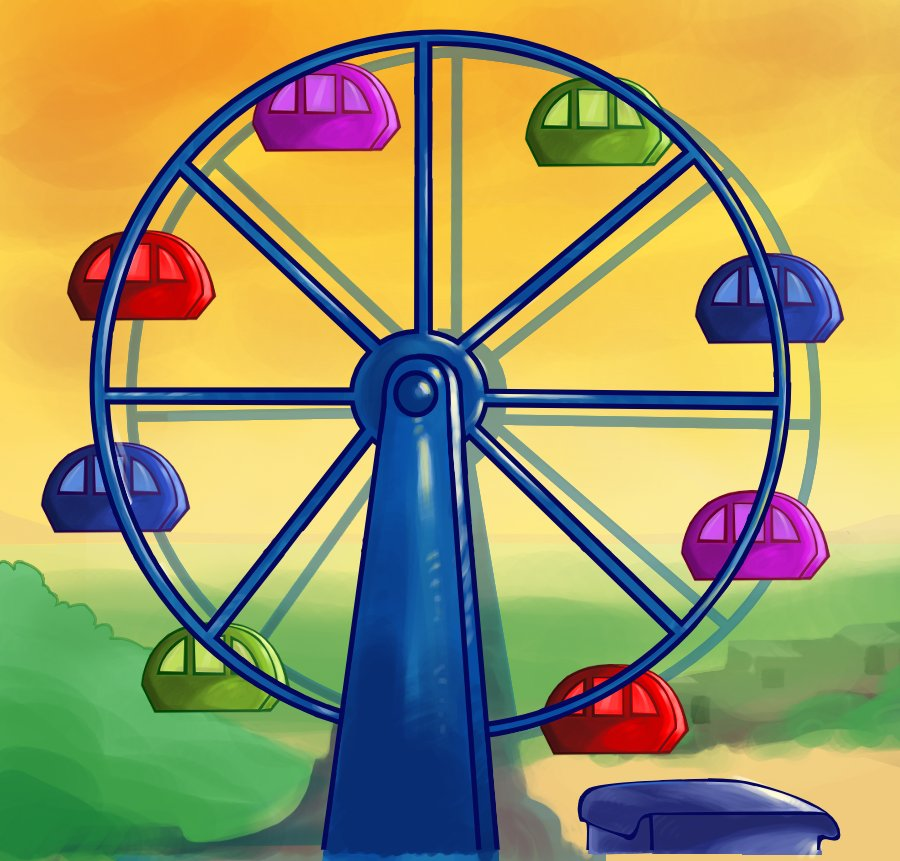
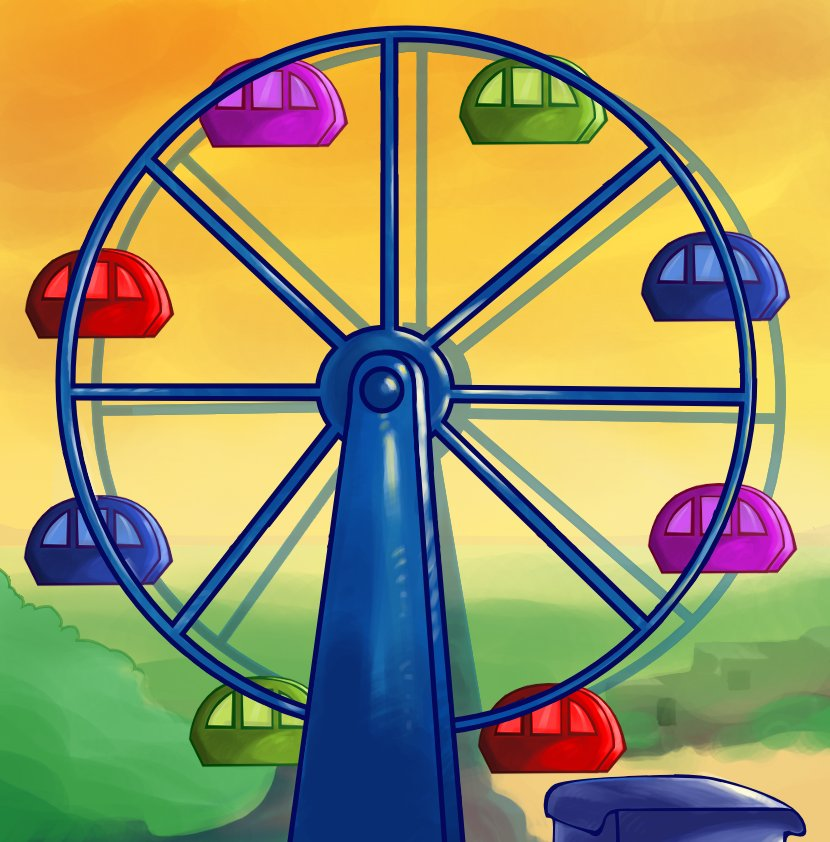
Transformation des images ne nécessitant pas de transparence en jpg (si plus de 25Ko !!). Correction chemin dans le code. Résolution bug #627

diff --git a/interfacecompetence.cpp b/interfacecompetence.cpp
@@ -25,7 +25,7 @@ InterfaceCompetence::InterfaceCompetence(QString competence,QWidget *parent) :
             this->setWindowTitle("Tables de multiplication");
             adapte(*m_decor);
             QPoint origine(m_decor->width()/2 - 60,m_decor->height()/2 - 60);
-            int R=m_decor->width()/2.7;
+            int R=m_decor->width()/2.5;
             int nb=8;
             int angleDepart=20;
             float deformation=1;
@@ -87,7 +87,7 @@ InterfaceCompetence::InterfaceCompetence(QString competence,QWidget *parent) :
             break;
 
         case 3 : {
-            m_decor = new QPixmap("./images/3standTir.png");
+            m_decor = new QPixmap("./images/3standTir.jpg");
             this->setWindowTitle("Les multiples");
             adapte(*m_decor);
             this->move(800,300);
@@ -118,7 +118,7 @@ InterfaceCompetence::InterfaceCompetence(QString competence,QWidget *parent) :
             break;
             
         case 4 : {
-            m_decor = new QPixmap("./images/4booster.png");
+            m_decor = new QPixmap("./images/4booster.jpg");
             this->setWindowTitle("Tables d'addition");
             adapte(*m_decor);
             move(200,0);
@@ -140,7 +140,7 @@ InterfaceCompetence::InterfaceCompetence(QString competence,QWidget *parent) :
             break;
 
         case 5 : {
-            m_decor = new QPixmap("./images/5palaisGlaces.png");
+            m_decor = new QPixmap("./images/5palaisGlaces.jpg");
             this->setWindowTitle("Ordres de grandeur");
             adapte(*m_decor);
             move(900,300);

diff --git a/exercice.cpp b/exercice.cpp
@@ -19,10 +19,7 @@ exercice::exercice(QString exo,int val, QString niveau,QWidget *parent) :
     m_ui(new Ui::exercice)
 {
     m_ui->setupUi(this);
-    QString nomImage = "./images/";
-        nomImage.append(exo);
-        nomImage.append(".png");
-        m_imgFond = new QPixmap(nomImage);
+    m_imgFond = new QPixmap("./images/"+exo+".jpg");
     QRect fenetre(0,0,m_imgFond->width(),m_imgFond->height());
     qDebug()<<"Image fond "<<fenetre.width()<<" X "<<fenetre.height()<<" dans l'exercice";
     //fenetre=QA
